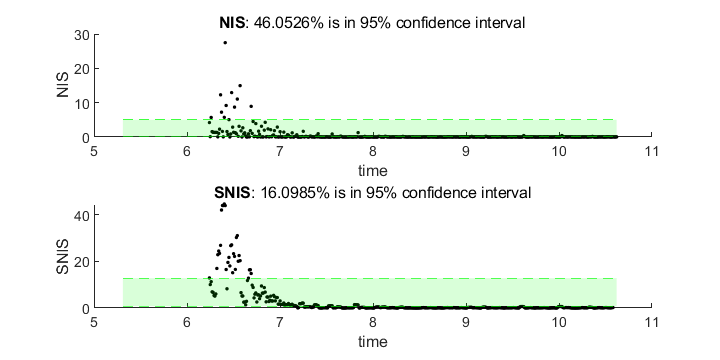
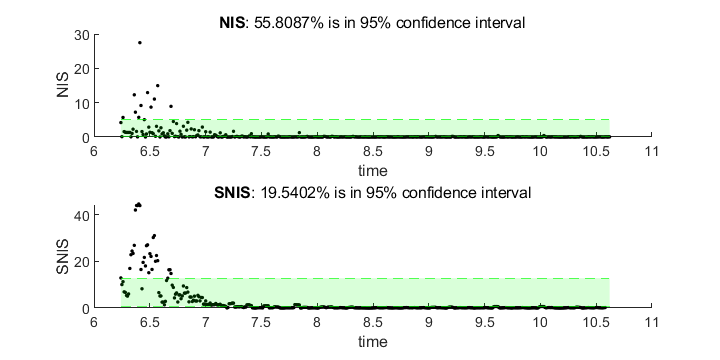
NIS SNIS bijgewerkt en geautomatiseerd

diff --git a/Assignment3/Vraag3d_auto.m b/Assignment3/Vraag3d_auto.m
@@ -1,0 +1,70 @@
+% -- NIS SNIS calculation sreamlining script
+clear all; close all
+
+
+% --------------------------
+% -- INPUT FOR FILES HERE --
+export_fig = 1;
+
+confidence = 0.95;   % confidence bound
+M = 5;               % samples for SNISS
+% -- FILES --
+files = [".\measured data\Vraag3C\R9.5199e_7\Qe_1.csv",         9.1599e-7;
+         ".\measured data\Vraag3C\R9.5199e_7\Qe_3.csv",         9.1599e-7;
+         ".\measured data\Vraag3C\R9.5199e_7\Qe_5.csv",         9.1599e-7;
+         ".\measured data\Vraag3C\R9.5199e_7\Qe_7.csv",         9.1599e-7;
+         ".\measured data\Vraag3C\R9.5199e_7\Qe_9.csv",         9.1599e-7;
+         ".\measured data\Vraag3C\R9.5199e_7\Qe_11.csv",        9.1599e-7;
+         ".\measured data\Vraag3C\R9.5199e_7\Q95199e_11.csv",   9.1599e-7;
+         ".\measured data\Vraag3C\Qe_8\Re_0.csv",                       1;
+         ".\measured data\Vraag3C\Qe_8\Re_2.csv",                    1e-2;
+         ".\measured data\Vraag3C\Qe_8\Re_4.csv",                    1e-4;
+         ".\measured data\Vraag3C\Qe_8\Re_6.csv",                    1e-6];
+
+% -- processing --
+
+for i = 3:length(files(:,1))
+    
+    % clean up
+    clear readdata readlabels obj
+    
+    filename = files(i,1);
+    R = files(i,2);
+    csvfile = convertStringsToChars(filename);
+    
+    % label order: P, x, y, nu, S
+    labels = {'P','x','y','nu','S'}; 
+    
+    datastartline = 3;  % depends on QRC version
+    delimiter = ',';    % depends on QRC version
+    
+    readlabels = strsplit(fileread(csvfile),{'\r','\n'});                % Split and fetch the labels
+    readlabels = strsplit(readlabels{:,datastartline-1},[delimiter ' ']);
+    readdata = dlmread(csvfile, delimiter, datastartline-1, 0);  % data
+
+    i_start = find(readdata(:,10)==-0.15,1)+1;
+    readdata = readdata((i_start:end),:);
+    
+    [lia,locb] = ismember(labels,readlabels);
+    readdata = readdata(:,[1 locb]);
+    
+    R = repmat(R,[1 1 size(readdata,1)]);
+    u = zeros(0,size(readdata,1));
+    
+    obj = KalmanExperiment(readdata(:,1)/1000, readdata(:,3)', permute(readdata(:,2),[2 3 1]), readdata(:,4)', R, u, readdata(:,5)', permute(readdata(:,6),[2 3 1]));     
+    [prob_nis, prob_snis] = analyzeconsistency(obj, confidence, M);
+    
+    filename = strsplit(filename,'\');
+    measurementName = erase(filename(end),'.csv');
+    
+    if export_fig
+        fig = gcf;
+        fig.PaperUnits = 'inches';
+        fig.PaperPosition = [0 0 6 3];
+        print(measurementName,'-dpng','-r0')
+        movefile(".\"+measurementName+".png", ".\NIS_SNISS")
+    end 
+    
+end
+
+
